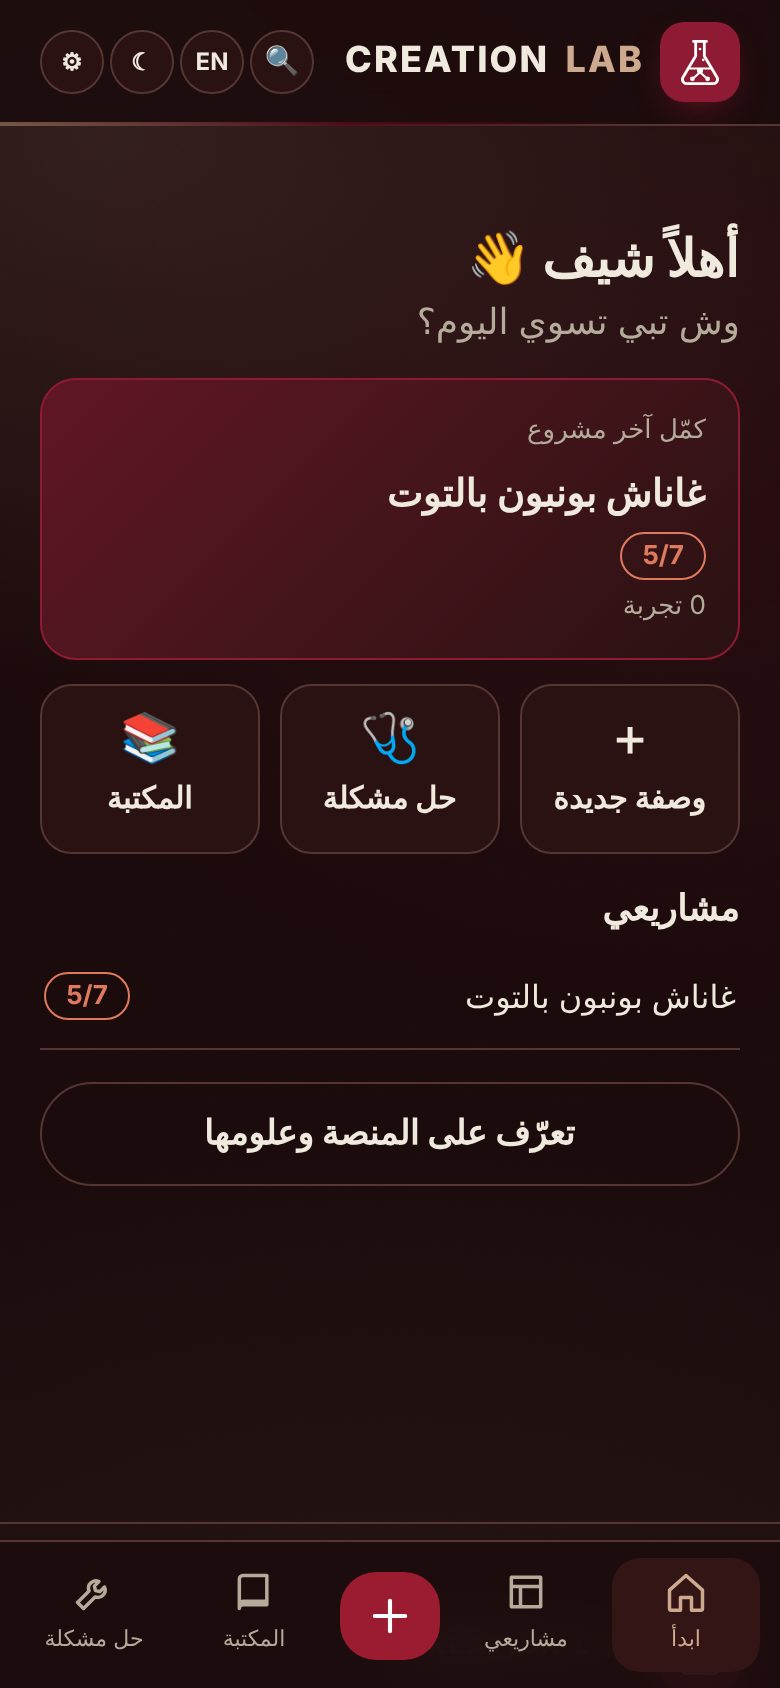
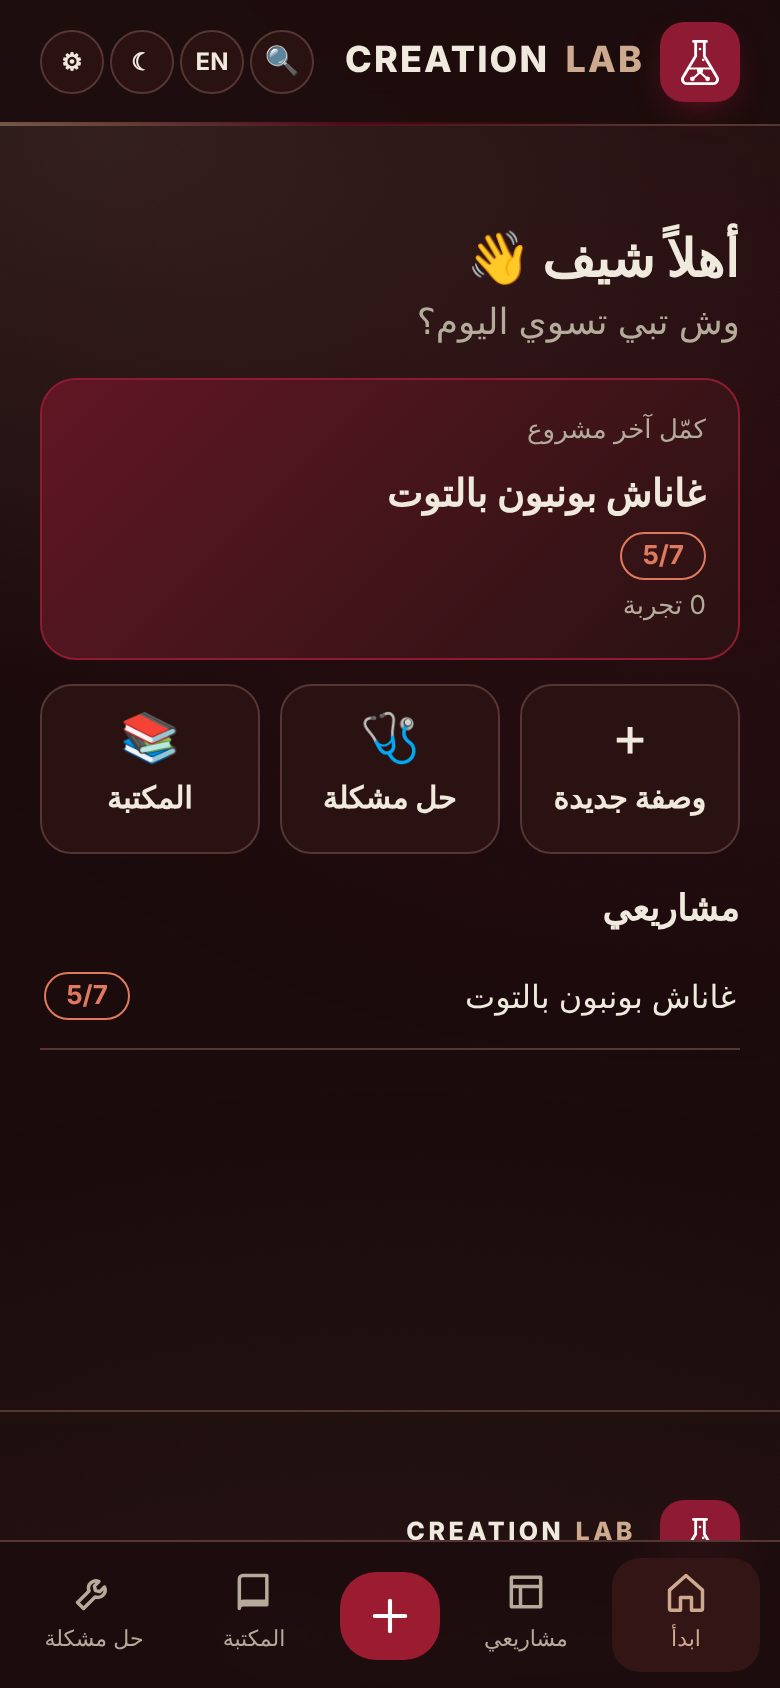
Fix scrolling in the installed app on iPhone/iPad; home is the start screen only
- The installed app (standalone) set overscroll-behavior:none on the body,
  and body{overflow-x:hidden} made the body its own scroll box; on iPhone and
  iPad this could freeze scrolling in the installed app only. The overscroll
  rule is gone and the body uses overflow-x:clip, so the page itself scrolls.
- The installed app reloads by itself when a new version takes over, so it
  cannot stay on an old cached copy; service worker cache v5.
- Home page: the old presentation sections and the about block are removed;
  it is the app start screen only.

Claude-Session: https://claude.ai/code/session_01VRHWGwgzwB5q7LRp4hqMZ9

diff --git a/index.html b/index.html
@@ -565,10 +565,12 @@ html{overflow-x:clip}
 @media(max-width:480px){#bSearch>span,#bSearch kbd{display:none}#bSearch::before{content:"🔍";font-size:14px}}
 @media(max-width:420px){header.top .ib{min-width:32px;height:32px;padding:0 6px;font-size:12px}header.top .tools{gap:3px}header.top .wrap{gap:8px}}
 .dash-more{width:100%;margin-top:4px}
+#aboutHost{display:none!important}
 .totop{position:fixed;inset-inline-start:16px;bottom:calc(84px + env(safe-area-inset-bottom));z-index:30;width:46px;height:46px;border-radius:50%;border:1px solid var(--line);background:var(--s1);color:var(--ink);font-size:22px;font-weight:800;box-shadow:0 6px 20px rgba(0,0,0,.35);cursor:pointer}@media(min-width:900px){.totop{bottom:24px}}
 .dash-inst{display:flex;gap:10px;align-items:center;background:var(--s1);border:1px dashed var(--acc);border-radius:16px;padding:10px 12px;margin:0 0 12px}.dash-inst>span{font-size:26px}.dash-inst>div{flex:1}.dash-inst p{margin:0}
 /* installed app: no website footer, respect the phone's notch */
-@media (display-mode: standalone){footer,#aboutHost{display:none!important}header.top{padding-top:env(safe-area-inset-top)}body{overscroll-behavior-y:none}}
+@media (display-mode: standalone){footer,#aboutHost{display:none!important}header.top{padding-top:env(safe-area-inset-top)}}
+@supports (overflow:clip){body{overflow-x:clip!important}}
 .sci-bad{border-inline-start:4px solid #C0392B}.sci-mid{border-inline-start:4px solid #D9A441}.sci-ok{border-inline-start:4px solid var(--ok)}
 </style>
 </head>
@@ -916,33 +918,8 @@ function labInit(){const cv=$("#labCv");if(!cv)return;if(STG&&STG.stop)STG.stop(
  function frame(t0){if(!cv.isConnected){o.stop();return}if(!document.hidden&&cv.offsetParent&&t0-last>45){last=t0;step();draw()}o.raf=requestAnimationFrame(frame)}
  o.raf=requestAnimationFrame(frame);let rt=0;addEventListener("resize",()=>{clearTimeout(rt);rt=setTimeout(()=>{if(cv.isConnected){mols=[];size()}},200)},{passive:true})}
 function renderHome(){
-  const stats=[[DATA.PROBLEMS.length,t("st_p")],[RECIPES.length,t("st_f")],[DATA.ING_DEFAULTS.length,t("st_i")],[DATA.COMPANIES.length,t("st_s")]];
-  const mk=(document.querySelector("header.top .mark")||{outerHTML:""}).outerHTML;
-  $("#p-home").innerHTML=`<div id="dash"></div><section class="lab"><canvas id="labCv" aria-hidden="true"></canvas><div class="lab-glow"></div><div class="wrap lab-in">
-  <div class="mast"><span class="brand mast-brand" style="pointer-events:none">${mk}<span class="wm"><b>CREATION<i>LAB</i></b><small>BY ZAHAR ANASS</small></span></span></div>
-  <div class="lab-grid">
-   <div class="lab-txt"><div class="eyebrow"><i></i>${esc(t("eyebrow"))}</div><h1>${t("h_title")}</h1><p class="lead">${esc(t("h_sub"))}</p>
-    <form class="hsearch" id="hSearchF" role="search"><svg viewBox="0 0 24 24"><circle cx="11" cy="11" r="7"/><path d="M20 20l-3.5-3.5"/></svg><input id="hSearchI" type="search" autocomplete="off" placeholder="${esc(t("l_hs"))}"><button type="submit">${esc(t("l_hsgo"))}</button></form>
-    <div class="hchips">${["l_hc1","l_hc2","l_hc3","l_hc4"].map(k=>`<button type="button" data-hq="${esc(t(k))}">${esc(t(k))}</button>`).join("")}</div>
-    <div class="bar" style="margin-top:22px"><a class="btn pri" href="#dev">${esc(t("cta1"))}</a><a class="btn ghost" href="#solve">${esc(t("cta2"))}</a></div></div>
-   <div class="orbit" aria-hidden="false"><i class="pulse p1"></i><i class="pulse p2"></i><i class="pulse p3"></i>
-    <div class="ring r1"><span class="sat sa">${satHtml("water")}</span><span class="sat sb">${satHtml("lipid")}</span></div>
-    <div class="ring r2"><span class="sat sa">${satHtml("protein")}</span><span class="sat sb">${satHtml("sugar")}</span></div>
-    <div class="core scope" role="img" aria-label="${esc(L==="ar"?"منظر مجهري لمستحلب":"Microscope view of an emulsion")}"><canvas id="scopeCv"></canvas><span class="sc-gl"></span></div></div>
-  </div>
-  <div class="pills">${["pill1","pill2","pill3","pill4","pill5","pill6"].map(k=>`<span class="pill">${esc(t(k))}</span>`).join("")}</div></div></section>
-  <div class="wrap">
-  ${startSection()}
-  ${secH("02",t("l_homeshelf"),t("sec_lib"))}
-  <div id="homeShelf" class="rev">${homeShelf()}</div>
-  <div class="stats rev">${stats.map(([n,l],i)=>`<div class="stat"><b data-n="${esc(n)}">0</b><span>${esc(l)}</span></div>`).join("")}</div>
-  <details class="molfold rev"><summary>${esc(L==="ar"?"علم المكوّنات الأربعة (اقرأه إن أردت الفهم الأعمق)":"The science: four building blocks (optional reading)")}</summary>${molSection()}</details>
-  ${secH("04",t("pil_h"),t("pil_s"))}
-  <div class="feat5 rev">${[["l_f1","M4 20c0-6 4-9 8-9s8 3 8 9M9 7a3 3 0 1 0 6 0 3 3 0 0 0-6 0"],["l_f2","M3 5h18v12H3zM8 21h8M12 17v4"],["l_f3","M5 3h11l3 3v15H5zM9 10h6M9 14h6"],["l_f4","M12 3l9 5-9 5-9-5zM6 11v5c3 3 9 3 12 0v-5"],["l_f5","M12 3l2.6 5.3 5.9.9-4.3 4.1 1 5.8-5.2-2.8-5.2 2.8 1-5.8L3.5 9.2l5.9-.9z"]].map(([k,d])=>`<div><svg viewBox="0 0 24 24"><path d="${esc(d)}"/></svg>${esc(t(k))}</div>`).join("")}</div>
-  <div id="feedSec"${FEED.length?"":" hidden"}>${secH("05",t("h_daily"),t("daily_lead"))}
-  <div class="card rev" style="margin-top:0"><ul class="feed" id="feedHome">${feedHtml(FEED,3)}</ul></div></div>
-  <div class="band rev"><h2>${esc(t("band_t"))}</h2><p class="lead" style="margin:0 auto 18px">${esc(t("band_p"))}</p><a class="btn pri" href="#dev">${esc(t("cta1"))}</a></div></div>`;
-  countUp();labInit();
+  /* the home page is the app's start screen only (filled by dashFill); the old presentation sections were removed */
+  $("#p-home").innerHTML=`<div id="dash"></div>`;if(window.dashFill)window.dashFill();
 }
 function stageInit(){const st=$("#stage"),cv=$("#stCv");if(!st||!cv)return;const ctx=cv.getContext&&cv.getContext("2d");if(STG&&STG.stop)STG.stop();
   const layers=[lay3({name:"b",w:18,h:1.1,color:"#795D4C",dens:.7}),lay3({name:"c",w:18,h:1.3,color:"#ACA494",dens:1}),lay3({name:"m",w:18,h:4.6,color:"#EADFD0",dens:.55}),lay3({name:"g",w:18,h:.35,color:"#4D0A18",dens:1.3,glaze:true})];
@@ -2750,7 +2727,7 @@ function dashFill(){const d=document.getElementById("dash");if(!d)return;const l
  <div class="dash-big"><button type="button" data-newpj="1"><span>＋</span>${esc(X("وصفة جديدة","New recipe"))}</button><a href="#solve"><span>🩺</span>${esc(X("حل مشكلة","Fix a problem"))}</a><a href="#library"><span>📚</span>${esc(X("المكتبة","Library"))}</a></div>
  ${PJ.length?`<h2>${esc(X("مشاريعي","My projects"))}</h2><ul class="dash-list">${PJ.slice(0,8).map(p=>`<li><button type="button" data-pjopen="${esc(p.id)}"><span>${esc(p.name)}</span>${dashScore(p)||`<span class="small">${esc(X("بدون نوع","No type"))}</span>`}</button></li>`).join("")}</ul>`:""}
  ${dashInstall()}
- <button type="button" class="btn ghost dash-more" data-dashmore="1">${esc(X("تعرّف على المنصة وعلومها ↓","About the platform and its science ↓"))}</button></div>`}
+ </div>`}
 window.dashFill=dashFill;
 {const up=document.createElement("button");up.type="button";up.id="toTop";up.className="totop noprint";up.hidden=true;up.textContent="↑";up.setAttribute("aria-label","Back to top");document.body.appendChild(up);
  up.addEventListener("click",()=>window.scrollTo({top:0,behavior:matchMedia("(prefers-reduced-motion:reduce)").matches?"auto":"smooth"}));
@@ -2782,7 +2759,8 @@ window.histHtml=histHtml;window.openAdjust=openAdjust;window.adjShell=adjShell;w
  setTimeout(welcome,900);
  /* install: the manifest and icons are real files (a blob: manifest is blocked by the site CSP); the service worker gives offline use */
  try{[["apple-mobile-web-app-capable","yes"],["mobile-web-app-capable","yes"],["apple-mobile-web-app-title","CREATION LAB"]].forEach(([n,c])=>{const m=document.createElement("meta");m.name=n;m.content=c;document.head.appendChild(m)})}catch(e){}
- try{if("serviceWorker"in navigator&&location.protocol==="https:"&&top===self&&/(^|\.)(zaharcreationlab\.com|github\.io)$/.test(location.hostname))addEventListener("load",()=>navigator.serviceWorker.register("sw.js").then(reg=>{reg.addEventListener("updatefound",()=>{const w=reg.installing;if(w)w.addEventListener("statechange",()=>{if(w.state==="installed"&&navigator.serviceWorker.controller)toast(ar()?"نسخة جديدة من التطبيق جاهزة":"A new version of the app is ready",ar()?"حدّث":"Refresh",()=>location.reload(),30000)})})}).catch(()=>{}))}catch(e){}
+ try{if("serviceWorker"in navigator&&location.protocol==="https:"&&top===self&&/(^|\.)(zaharcreationlab\.com|github\.io)$/.test(location.hostname)){const had=!!navigator.serviceWorker.controller;let rl=false;navigator.serviceWorker.addEventListener("controllerchange",()=>{if(!had||rl)return;rl=true;location.reload()})}
+ addEventListener("load",()=>navigator.serviceWorker.register("sw.js").then(reg=>{reg.addEventListener("updatefound",()=>{const w=reg.installing;if(w)w.addEventListener("statechange",()=>{if(w.state==="installed"&&navigator.serviceWorker.controller)toast(ar()?"نسخة جديدة من التطبيق جاهزة":"A new version of the app is ready",ar()?"حدّث":"Refresh",()=>location.reload(),30000)})})}).catch(()=>{}))}catch(e){}
  let dip=null;addEventListener("beforeinstallprompt",e=>{e.preventDefault();dip=e;window.__dip=e;try{window.dashFill&&window.dashFill()}catch(_){}if(document.getElementById("bInstall"))return;const b=document.createElement("button");b.id="bInstall";b.className="ib";b.type="button";b.textContent=ar()?"تثبيت":"Install";b.onclick=async()=>{b.remove();try{dip.prompt();await dip.userChoice}catch(_){}dip=null;window.__dip=null;try{window.dashFill&&window.dashFill()}catch(_){}};document.querySelector(".tools").prepend(b)});
 })();
 })();

diff --git a/smoke.js b/smoke.js
@@ -217,10 +217,8 @@ console.log('16) share options, cost on demand, chocolate from the label');
 
 console.log('17) app interface: home, project list vs workspace, tabs, compare, settings');
 {const p=await mk(390);await p.goto(FILE+'#home');await p.waitForTimeout(800);await toAr(p);
- ok(await p.evaluate(()=>!!document.querySelector('#dash .dash-big')&&document.querySelector('#dash').getBoundingClientRect().top<innerHeight/2),'home opens on the app start screen');
- ok(await p.evaluate(()=>getComputedStyle(document.querySelector('#p-home .lab')).display!=='none'&&document.documentElement.scrollHeight>innerHeight*2.5),'the presentation stays below it, so the home page scrolls down');
- await p.evaluate(()=>document.querySelector('[data-dashmore]').click());await p.waitForTimeout(1200);
- ok(await p.evaluate(()=>scrollY>200),'"about the platform" jumps down to it');await p.evaluate(()=>scrollTo(0,0));
+ ok(await p.evaluate(()=>!!document.querySelector('#dash .dash-big')&&!document.querySelector('#p-home .lab')&&!document.querySelector('[data-dashmore]')),'home is only the app start screen (old presentation removed)');
+ ok(await p.evaluate(()=>{const c=getComputedStyle(document.body).overflowX;return c==='clip'||c==='visible'}),'body is not its own scroll box (iPhone/iPad installed-app scroll lock)');
  await p.goto(FILE+'#dev');await p.waitForTimeout(700);ok(await p.evaluate(()=>!!document.querySelector('[data-ptype=gb]')),'new project asks the product type');
  await p.fill('#pjn','غاناش');await p.click('[data-ptype=gb]');await p.click('[data-imp=new]');await p.fill('#impta','كريمة 35% 200\nشوكولاتة داكنة 60% 300\nشراب جلوكوز 30\nسكر محول 30\nزبدة 82% 40');await p.click('[data-impgo]');await p.waitForTimeout(400);await p.click('[data-impgo]',{timeout:1200}).catch(()=>{});await p.waitForTimeout(800);
  ok(await p.evaluate(()=>document.getElementById('p-dev').dataset.mode==='ws'&&!document.getElementById('pjn')),'opening a project shows only the workspace');

diff --git a/sw.js b/sw.js
@@ -2,7 +2,7 @@
    Pages: network first (always fresh when online), cache as fallback.
    Static files (icons, vendored PDF libraries): cache first.
    Cloud sync calls (Supabase) are never cached. */
-const VERSION = "cl-v4";
+const VERSION = "cl-v5";
 const CORE = ["./", "index.html", "manifest.webmanifest", "icons/icon.svg", "icons/icon-192.png", "icons/icon-512.png"];
 const LAZY = ["vendor/jspdf-2.5.1.umd.min.js", "vendor/html2canvas-1.4.1.min.js"];
 
